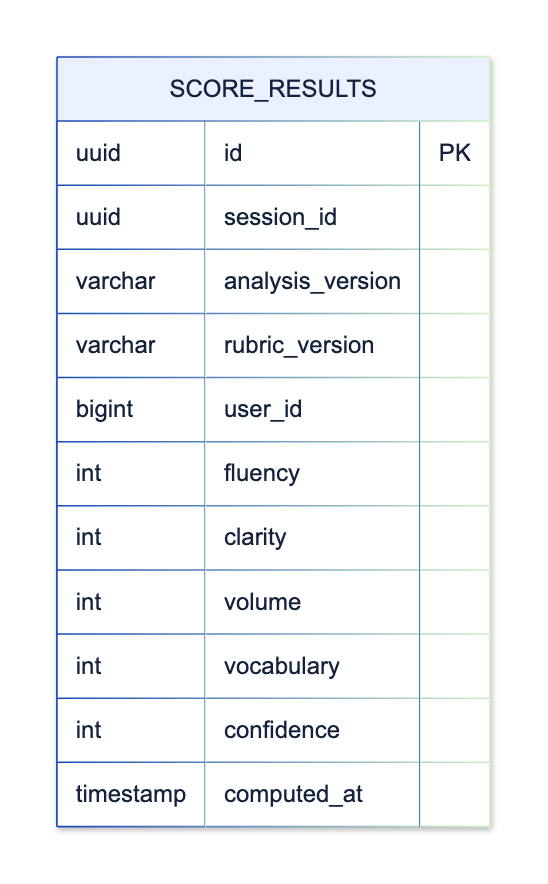
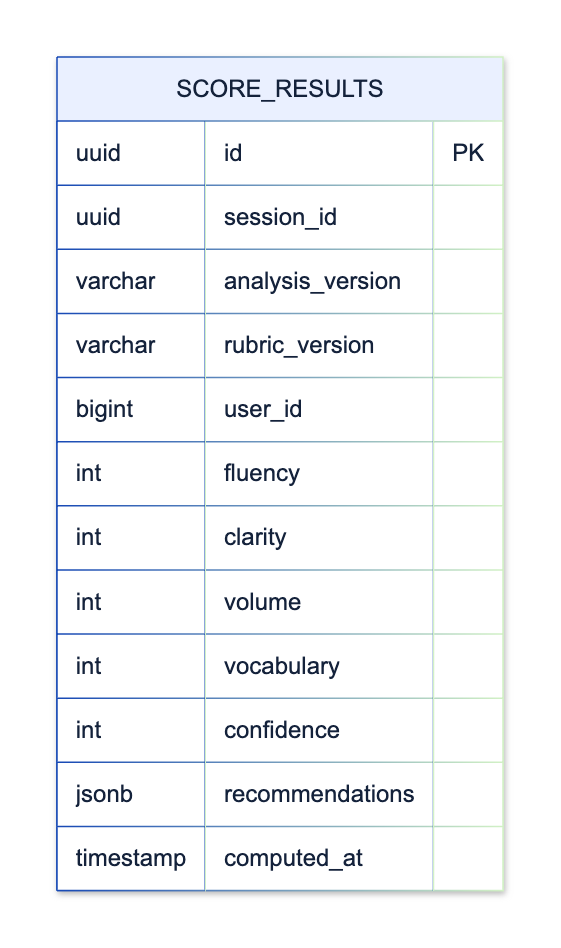
docs(5.3): completa modelos y contratos de Scoring & Feedback
Corrección documental y de artefactos del diseño objetivo del TP.

Edición y consolidación: Alejandro Daniel Oroncoy Almeyda.
Revisión asignada: Manuel Ignacio Tumi Oliden. La revisión individual está pendiente y no se acredita aquí como autoría realizada.

Changed region(s): [[0.0931, 0.0611, 0.8996, 0.9468]]

diff --git a/README.md b/README.md
@@ -2365,9 +2365,20 @@ ScoreCalculator aplica los criterios de puntuación sobre las métricas disponib
 
 **Reglas principales**
 
-1. Cada dimensión utiliza una escala de 0 a 100 cuando existe evidencia suficiente.
+1. Cada dimensión utiliza una escala de 0 a 100 cuando existe evidencia suficiente. La puntuación global promedia solo las dimensiones evaluables y devuelve ausencia de valor si no hay ninguna; el reporte identifica su cobertura y limitaciones.
 2. La evaluación debe conservar la versión del análisis y la rúbrica utilizada.
 3. Recibir nuevamente un mismo análisis debe conservar un único resultado para esa versión.
+
+**Atributos y operaciones del modelo de dominio**
+
+Los atributos se encapsulan; las operaciones públicas expresan las reglas del contexto. Las interfaces y enumeraciones se distinguen en el UML. Este modelo especifica el diseño objetivo del TP.
+
+| Elemento | Atributos o valores | Operaciones públicas |
+| --- | --- | --- |
+| ScoreResult | UUID id<br>UUID sessionId<br>Long userId<br>String analysisVersion<br>String rubricVersion<br>VoiceScore score<br>List~String~ recommendations<br>Instant computedAt | hasEvidence() boolean |
+| VoiceScore | Integer fluency<br>Integer clarity<br>Integer volume<br>Integer vocabulary<br>Integer confidence | overall() Integer |
+| EvaluationEvidence | UUID sessionId<br>String analysisVersion<br>Map~String,double~ metrics<br>List~String~ availableDimensions<br>List~String~ limitations<br>List~String~ contextualFindings | Consulta mediante el agregado o servicio responsable. |
+| ScoreCalculator | Sin estado propio. | calculate(EvaluationEvidence evidence, String rubricVersion) VoiceScore |
 
 ### 5.3.2. Interface Layer
 
@@ -2375,7 +2386,9 @@ La evaluación se activa al recibir el evento `fillers.analyzed`. FillerAnalyzed
 
 **Entrada y salida del contexto.** FillerAnalyzedConsumer recibe el análisis y activa la evaluación. Al concluir, ScoringCompletedEvent comunica la puntuación por dimensión, el resumen global y los datos de la práctica mediante `scoring.completed`.
 
-**Consulta del reporte propuesta.** La consulta del resultado deberá comprobar que el estudiante pueda acceder a la sesión. El contrato de lectura y su representación se definirán durante la integración. La versión de rúbrica y los resultados sin evidencia se incorporan a la representación propuesta del reporte.
+**Consulta del reporte.** ReportController expone `GET /v1/reports/{sessionId}`. ReportQueryHandler consulta Sessions para comprobar propiedad y ausencia de eliminación. Devuelve 200 con reportId, sessionId, analysisVersion, rubricVersion, dimensiones, evidencia y recomendaciones; 202 con analysisState si aún no existe resultado; 404 si la práctica no está disponible para el solicitante. Un fallo de análisis devuelve un estado recuperable, sin puntuación fabricada. `POST /v1/reports/{sessionId}/analysis-retries` solicita un reintento sobre el mismo AnalysisJob y devuelve 202 con jobId y estado.
+
+**Lectura interna para compartir.** `GET /internal/v1/reports/{reportId}` se limita al servicio Sharing & Retention autenticado. Recibe una autorización validada con ownerId, sessionId y scope; Scoring comprueba que coincida con el reporte y que la sesión siga disponible. Devuelve solo la proyección permitida; el material contextual queda excluido. El token del enlace se resuelve en Sharing y no sustituye estas comprobaciones.
 
 ### 5.3.3. Application Layer
 
@@ -2385,16 +2398,24 @@ La capa de aplicación coordina el cálculo, el registro y la comunicación de u
 
 La evaluación comienza con FillerAnalyzedEvent. El flujo comprueba si existe un resultado para la sesión, solicita el cálculo, conserva ScoreResult y comunica ScoringCompletedEvent.
 
-**Queries propuestas**
+**Queries del diseño objetivo**
 
-La lectura del reporte recuperará la evaluación para un estudiante autorizado. Su contrato se definirá durante la integración y deberá presentar la versión de la rúbrica y las dimensiones sin evidencia.
+La lectura del reporte recuperará la evaluación para un estudiante autorizado. ReportQueryHandler aplica el contrato de 5.3.2 y presenta las versiones y dimensiones sin evidencia.
 
 **Elementos de Application Layer**
 
 | Nombre | Tipo | Descripción | Capa |
 | --- | --- | --- | --- |
-| Evaluación de la práctica | Caso de uso | Solicita el cálculo a ScoreCalculator con las métricas del análisis. | Application |
-| Registro y comunicación del resultado | Caso de uso | Conserva ScoreResult y solicita la publicación de ScoringCompletedEvent. | Application |
+| EvaluatePracticeHandler | Event Handler | Solicita el cálculo a ScoreCalculator con las métricas del análisis. | Application |
+| ReportQueryHandler | Query Handler | Recupera la evaluación autorizada y su estado; EvaluatePracticeHandler conserva ScoreResult y solicita ScoringCompletedEvent. | Application |
+
+**Contratos de coordinación**
+
+| Clase o grupo de clases | Responsabilidad | Operaciones previstas |
+| --- | --- | --- |
+| EvaluatePracticeHandler / ReportQueryHandler | Evalúa, registra y recupera resultados autorizados. | handle(FillerAnalyzedEvent); query(sessionId, requester) |
+
+Los handlers validan la petición o el evento antes de ejecutar cambios. Los puertos de repositorio y de integración son contratos; los adaptadores de Infrastructure realizan esos contratos. Los nombres describen clases previstas para implementar el diseño, sin afirmar que estén desplegadas.
 
 ### 5.3.4. Infrastructure Layer
 
@@ -2408,11 +2429,22 @@ La capa de infraestructura recibe las métricas, conserva las evaluaciones y com
 | ScoreResultRepository | Repositorio | Conserva y consulta evaluaciones en PostgreSQL. | Infrastructure |
 | ScoringCompletedPublisher | Publicador de eventos | Comunica la evaluación completada mediante RabbitMQ. | Infrastructure |
 
-La persistencia base conserva una evaluación por sesión. El diseño ampliado identifica los resultados por sesión y versión y registra la rúbrica utilizada. La entrega del reporte deberá comprobar el permiso sobre la práctica.
+ScoreResultRepository conserva una evaluación por sesión, analysisVersion y rubricVersion, con una restricción única compuesta. La transacción registra el resultado y la salida en outbox antes de confirmar el evento recibido. SessionAccessClient comprueba autorización y eliminación para las consultas.
 
 ### 5.3.5. Bounded Context Software Architecture Component Level Diagrams
 
-Las métricas recibidas se entregan al calculador y el resultado se conserva antes de comunicar scoring.completed. Las consultas recuperan la evaluación autorizada para su presentación en el reporte.
+Esta vista C4 descompone el container de Scoring & Feedback definido en 4.3.3. Los elementos externos se sitúan fuera de su frontera; las relaciones indican responsabilidad y protocolo. Las clases siguientes colaboran en los componentes del proceso y mantienen la separación de capas.
+
+| Clases agrupadas en el componente | Capa | Responsabilidad |
+| --- | --- | --- |
+| FillerAnalyzedConsumer | Infrastructure | Adapta el evento de análisis. |
+| ReportController | Interface | Ofrece reporte, estado y solicitud de reintento. |
+| EvaluatePracticeHandler / ReportQueryHandler | Application | Evalúa, registra y recupera resultados autorizados. |
+| ScoreCalculator / ScoreResult / VoiceScore | Domain | Calcula dimensiones respaldadas por evidencia. |
+| ScoreResultRepository / ScoringOutbox | Infrastructure | Mantiene unicidad por sesión y versiones. |
+| ScoringCompletedPublisher | Infrastructure | Despacha evaluación confirmada. |
+| SessionAccessClient | Infrastructure | Comprueba acceso y eliminación. |
+| AnalysisJobClient | Infrastructure | Consulta estado y solicita reintento. |
 
 ![Componentes de Scoring & Feedback](assets/diagrams/tactical/03-scoring-feedback-components.png)
 
@@ -2429,6 +2461,15 @@ ScoreResult contiene VoiceScore y, en el modelo ampliado, las versiones de anál
 La tabla score_results contiene la referencia a la sesión, el usuario, las dimensiones evaluadas y la fecha de cálculo. El esquema ampliado incorpora las versiones de análisis y rúbrica. La combinación de sesión y ambas versiones debe ser única; las dimensiones sin evidencia admiten valores nulos y se presentan como “Sin evidencia”.
 
 ![Persistencia de Scoring & Feedback](assets/diagrams/tactical/03-scoring-feedback-database.png)
+
+**Restricciones de persistencia**
+
+| Objeto | Restricción y relación con las reglas |
+| --- | --- |
+| SCORE_RESULTS | UNIQUE(session_id, analysis_version, rubric_version). Dimensiones nulas cuando no existe evidencia; CHECK entre 0 y 100 para valores presentes. Las recomendaciones conservan la referencia a la evidencia utilizada. |
+
+La unicidad compuesta se documenta en esta tabla porque comprende varios campos; las marcas PK/FK/UK del diagrama identifican claves simples. Inbox y outbox son registros técnicos del esquema privado: eventId es único en inbox y el despacho confirma la salida después del commit local. No se crean FKs hacia otros contextos.
+
 
 ## 5.4. Bounded Context: Practice Session Management
 
